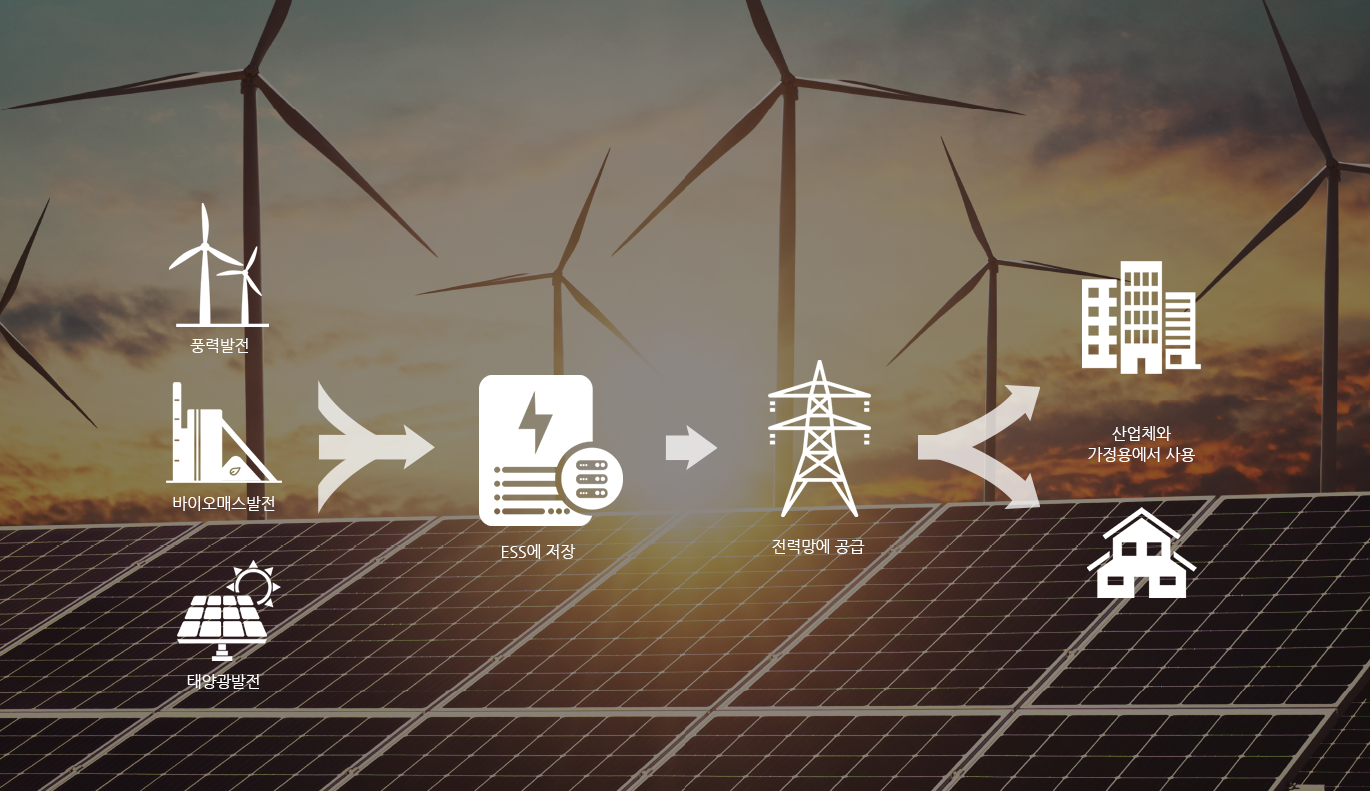
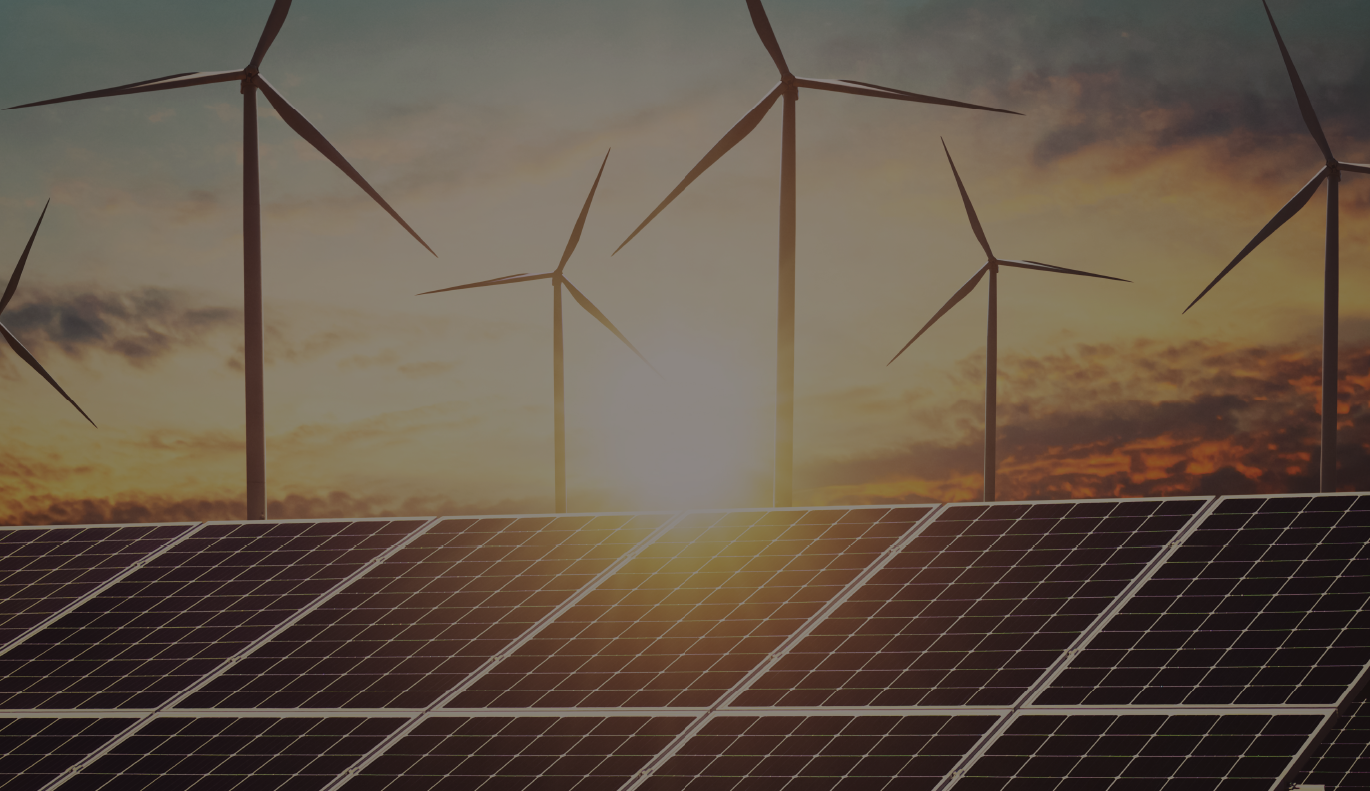
수정

diff --git a/pages/business.html b/pages/business.html
@@ -52,7 +52,8 @@
             <section class="visual content" id="cont21">
                 <p class="cont-txt">
                     <strong class="basic-tit01">What does <br>HUREM do?</strong>
-                    Lorem Ipsum is simply dummy text of the printing <br>and typesetting industry. Lorem Ipsum has been the industry's
+                    Lorem Ipsum is simply dummy text of the printing <br>and typesetting industry. Lorem Ipsum has been
+                    the industry's
                 </p>
                 <div class="ico-cont">
                     <span>에너지 + ICT<br>융합 솔루션</span>
@@ -68,44 +69,79 @@
                     <div class="bs1">
                         <strong>Windpower</strong>
                         <div class="bs-hover">
-                            <p>Lorem ipsum dolor sit amet, consectetuer adipiscing elit, sed diam nonummy nibh euismod tincidunt ut laoreet dolore magna aliquam erat volutpat. Ut wisi enim ad minim veniam, quis nostrud exerci tation ullamcorper suscipit lobortis nisl ut.</p>
+                            <p>Lorem ipsum dolor sit amet, consectetuer adipiscing elit, sed diam nonummy nibh euismod
+                                tincidunt ut laoreet dolore magna aliquam erat volutpat. Ut wisi enim ad minim veniam,
+                                quis nostrud exerci tation ullamcorper suscipit lobortis nisl ut.</p>
                             <span>Windpower</span>
                         </div>
                     </div>
                     <div class="bs2">
                         <strong>Solarpower</strong>
                         <div class="bs-hover">
-                            <p>Lorem ipsum dolor sit amet, consectetuer adipiscing elit, sed diam nonummy nibh euismod tincidunt ut laoreet dolore magna aliquam erat volutpat. Ut wisi enim ad minim veniam, quis nostrud exerci tation ullamcorper suscipit lobortis nisl ut.</p>
+                            <p>Lorem ipsum dolor sit amet, consectetuer adipiscing elit, sed diam nonummy nibh euismod
+                                tincidunt ut laoreet dolore magna aliquam erat volutpat. Ut wisi enim ad minim veniam,
+                                quis nostrud exerci tation ullamcorper suscipit lobortis nisl ut.</p>
                             <span>Solarpower</span>
                         </div>
                     </div>
                     <div class="bs3">
                         <strong>ESS</strong>
                         <div class="bs-hover">
-                            <p>Lorem ipsum dolor sit amet, consectetuer adipiscing elit, sed diam nonummy nibh euismod tincidunt ut laoreet dolore magna aliquam erat volutpat. Ut wisi enim ad minim veniam, quis nostrud exerci tation ullamcorper suscipit lobortis nisl ut.</p>
+                            <p>Lorem ipsum dolor sit amet, consectetuer adipiscing elit, sed diam nonummy nibh euismod
+                                tincidunt ut laoreet dolore magna aliquam erat volutpat. Ut wisi enim ad minim veniam,
+                                quis nostrud exerci tation ullamcorper suscipit lobortis nisl ut.</p>
                             <span>ESS</span>
                         </div>
                     </div>
                     <div class="bs4">
                         <strong>EV</strong>
                         <div class="bs-hover">
-                            <p>Lorem ipsum dolor sit amet, consectetuer adipiscing elit, sed diam nonummy nibh euismod tincidunt ut laoreet dolore magna aliquam erat volutpat. Ut wisi enim ad minim veniam, quis nostrud exerci tation ullamcorper suscipit lobortis nisl ut.</p>
+                            <p>Lorem ipsum dolor sit amet, consectetuer adipiscing elit, sed diam nonummy nibh euismod
+                                tincidunt ut laoreet dolore magna aliquam erat volutpat. Ut wisi enim ad minim veniam,
+                                quis nostrud exerci tation ullamcorper suscipit lobortis nisl ut.</p>
                             <span>EV</span>
                         </div>
                     </div>
                 </div>
             </section>
-            
+
             <section class="cont2 content" id="cont23">
                 <h2 class="basic-tit02">풍력 태양광 등 복수 재생에너지를 활용한 e-Prosumer</h2>
-                <div class="hide">
-                    풍력발전, 바이오매스발전, 태양광발전을 ESS에 저장 후 전력망에 공급하고 산업체와 가정용에서 사용
+                <div class="prosumer-pos">
+                    <div class="basic-ico ">
+                        <img src="/images/icon5.png" alt="">
+                        <p class=""> 풍력발전</p>
+                        <img src="/images/icon6.png" alt="">
+                        <p class=""> 바이오매스발전</p>
+                        <img src="/images/icon7.png" alt="">
+                        <p class="">태양광발전</p>
+                    </div>
+                    <div class="basic-ico "><img src="/images/arrow3.png" alt=""></div>
+                    <div class="basic-ico ">
+                        <img src="/images/icon4.png" alt="">
+                        <p class="txt2">ESS에 저장</p>
+                    </div>
+                    <div class="basic-ico "><img src="/images/arrow2.png" alt=""></div>
+                    <div class="basic-ico ">
+                        <img src="/images/icon3.png" alt="">
+                        <p class="">전력망에 공급</p>
+                    </div>
+                    <div class="basic-ico "><img src="/images/arrow1.png" alt=""></div>
+                    <div class="basic-ico ">
+                        <img src="/images/icon1.png" alt="">
+                        <p class="txt1">
+                            산업체와<br>
+                            가정용에서 사용
+                        </p>
+                        <img src="/images/icon2.png" alt="">
+                    </div>
                 </div>
             </section>
-            
+
             <section class="cont3 content" id="cont24">
                 <h2 class="basic-tit02">건축물 전력 피크 절감 및 에너지 사용 효율화</h2>
-                <p class="cont-txt">Lorem Ipsum is simply dummy text of the printing and typesetting <br>industry. Lorem Ipsum has been the industry's.</p>
+                <p class="cont-txt">Lorem Ipsum is simply dummy text of the printing and typesetting <br>industry. Lorem
+                    Ipsum has been the industry's.</p>
                 <div class="cont-img">
                     <span>
                         <strong>기본요금절감</strong>
@@ -117,21 +153,33 @@
                     </span>
                 </div>
             </section>
-            
+
             <section class="cont4 content" id="cont25">
                 <h2 class="basic-tit02">EV 배터리 재활용 급속충전 시스템 구축</h2>
-                <p class="cont-txt">Lorem Ipsum is simply dummy text of the printing and typesetting <br>industry. Lorem Ipsum has been the industry's.</p>
+                <p class="cont-txt">Lorem Ipsum is simply dummy text of the printing and typesetting <br>industry. Lorem
+                    Ipsum has been the industry's.</p>
                 <div class="cont-img">
                     <img src="/images/img_business03.png" alt="">
                 </div>
                 <h3>EV Bettery Recycling</h3>
-                <p class="cont-txt">Lorem Ipsum is simply dummy text of the printing and typesetting industry. Lorem Ipsum has been the industry's standard dummy text ever since the 1500s, when an unknown printer took a galley of type and scrambled it to make a type specimen book. It has survived not only five centuries, but also the leap into electronic typesetting, remaining essentially unchanged. It was popularised in the 1960s with the release of Letraset sheets containing Lorem Ipsum passages, and more ecently with.</p>
+                <p class="cont-txt">Lorem Ipsum is simply dummy text of the printing and typesetting industry. Lorem
+                    Ipsum has been the industry's standard dummy text ever since the 1500s, when an unknown printer took
+                    a galley of type and scrambled it to make a type specimen book. It has survived not only five
+                    centuries, but also the leap into electronic typesetting, remaining essentially unchanged. It was
+                    popularised in the 1960s with the release of Letraset sheets containing Lorem Ipsum passages, and
+                    more ecently with.</p>
             </section>
-            
+
             <section class="cont5 content" id="cont26">
                 <div class="bs-system">
                     <h2 class="basic-tit01">HUREM <br>Monitoring System</h2>
-                    <p class="cont-txt">Lorem Ipsum is simply dummy text of the printing and typesetting industry. Lorem Ipsum has been the industry's standard dummy text ever since the 1500s, when an unknown printer took a galley of type and scrambled it to make a type specimen book. It has survived not only five centuries, but also the leap into electronic typesetting, remaining essentially unchanged. It was popularised in the 1960s with the release of Letraset sheets containing Lorem Ipsum passages, and more ecently with desktop publishing software like Aldus PageMaker including versions of Lorem Ipsum.</p>
+                    <p class="cont-txt">Lorem Ipsum is simply dummy text of the printing and typesetting industry. Lorem
+                        Ipsum has been the industry's standard dummy text ever since the 1500s, when an unknown printer
+                        took a galley of type and scrambled it to make a type specimen book. It has survived not only
+                        five centuries, but also the leap into electronic typesetting, remaining essentially unchanged.
+                        It was popularised in the 1960s with the release of Letraset sheets containing Lorem Ipsum
+                        passages, and more ecently with desktop publishing software like Aldus PageMaker including
+                        versions of Lorem Ipsum.</p>
                 </div>
                 <div class="cont-img">
                     <img src="/images/img_business04.png" alt="">
@@ -151,10 +199,23 @@
                     </dl>
                 </div>
             </section>
-        </div>
+    </div>
     </main>
-    <!-- eng of main -->    
-    
+    <!-- eng of main -->
+
+    <!-- start of footer -->
+    <footer class="base-footer">
+        <p class="copyright">Copyright© 2019 Hurem Co. All rights reserved.</p>
+        <p class="num-tel">
+            <span><i>T</i> +82 64 759 0040</span> <span><i>F</i> +82 64 759 0087 </span> <span><a
+                    href="mailTo:info@hurem.co.kr"><i>E</i> info@hurem.co.kr</a></span>
+        </p>
+    </footer>
+    <!-- end of footer -->
+
+    <!--top 버튼-->
+    <div class="btn-top"><button type="button">TOP</button></div>
+
 </body>
 
 </html>

diff --git a/css/page/sub.css b/css/page/sub.css
@@ -336,7 +336,7 @@
 .business .visual {
     height: 710px;
     padding: 298px 0 0 865px;
-    background: url(/images/bg_business01.png) 0 0 no-repeat;
+    background:#fff url(/images/bg_business01.png) 0 0 no-repeat !important;
 }
 
 .business .visual .basic-tit01 {
@@ -402,7 +402,7 @@
 
 .business .cont1 {
     padding: 95px 0 120px;
-    background: #efefef;
+    background: #efefef !important;
     text-align: center;
 }
 
@@ -496,7 +496,7 @@
 .business .cont2 {
     height: 790px;
     padding-top: 100px;
-    background: url(/images/bg_business02.png) 0 0 no-repeat;
+    background:url(/images/bg_business02.png) 0 0 no-repeat !important;
 }
 
 .business .cont2 .basic-tit02 {
@@ -769,6 +769,31 @@
     line-height: 35px;
 }
 
+.prosumer-pos {
+    text-align: center;
+    display: table;
+    width: 80%;
+    margin: 60px auto 0;
+}
+.prosumer-pos .basic-ico {
+    display: table-cell;
+    vertical-align: middle;
+}
+.prosumer-pos p {
+    color:#fff;
+    font-size:15px;
+    line-height: 21px;
+    text-align: center;
+    margin-top: 15px;
+    margin-bottom: 30px;
+}
+.prosumer-pos p.txt1 {
+    margin: 50px 0;
+}
+.prosumer-pos p.txt2 {
+    text-align: left;
+    margin-left: 54px;
+}
 /* animation  */
 .drop-effect1 {transform: translate3d(0, -50px, 0); opacity:0; }
 .active .drop-effect1 { transform:translate3d(0,0,0); opacity:1; transition-property:opacity, transform;  transition-duration: 0.3s; transition-delay:0.2s; transition-timing-function:ease-in; }

diff --git a/css/page/layout.css b/css/page/layout.css
@@ -114,11 +114,14 @@ html {
     position: fixed;
     bottom:185px;
     right:50%;
+    margin-right: -685px;
+    text-align: right;
     display: none;
 }
 .btn-top button {
     width: 39px;
     height: 39px;
+    margin-right: 50px;
     background: url(/images/btn_top.png) 0 0 no-repeat;
     color: transparent;
     font-size: xx-small;
